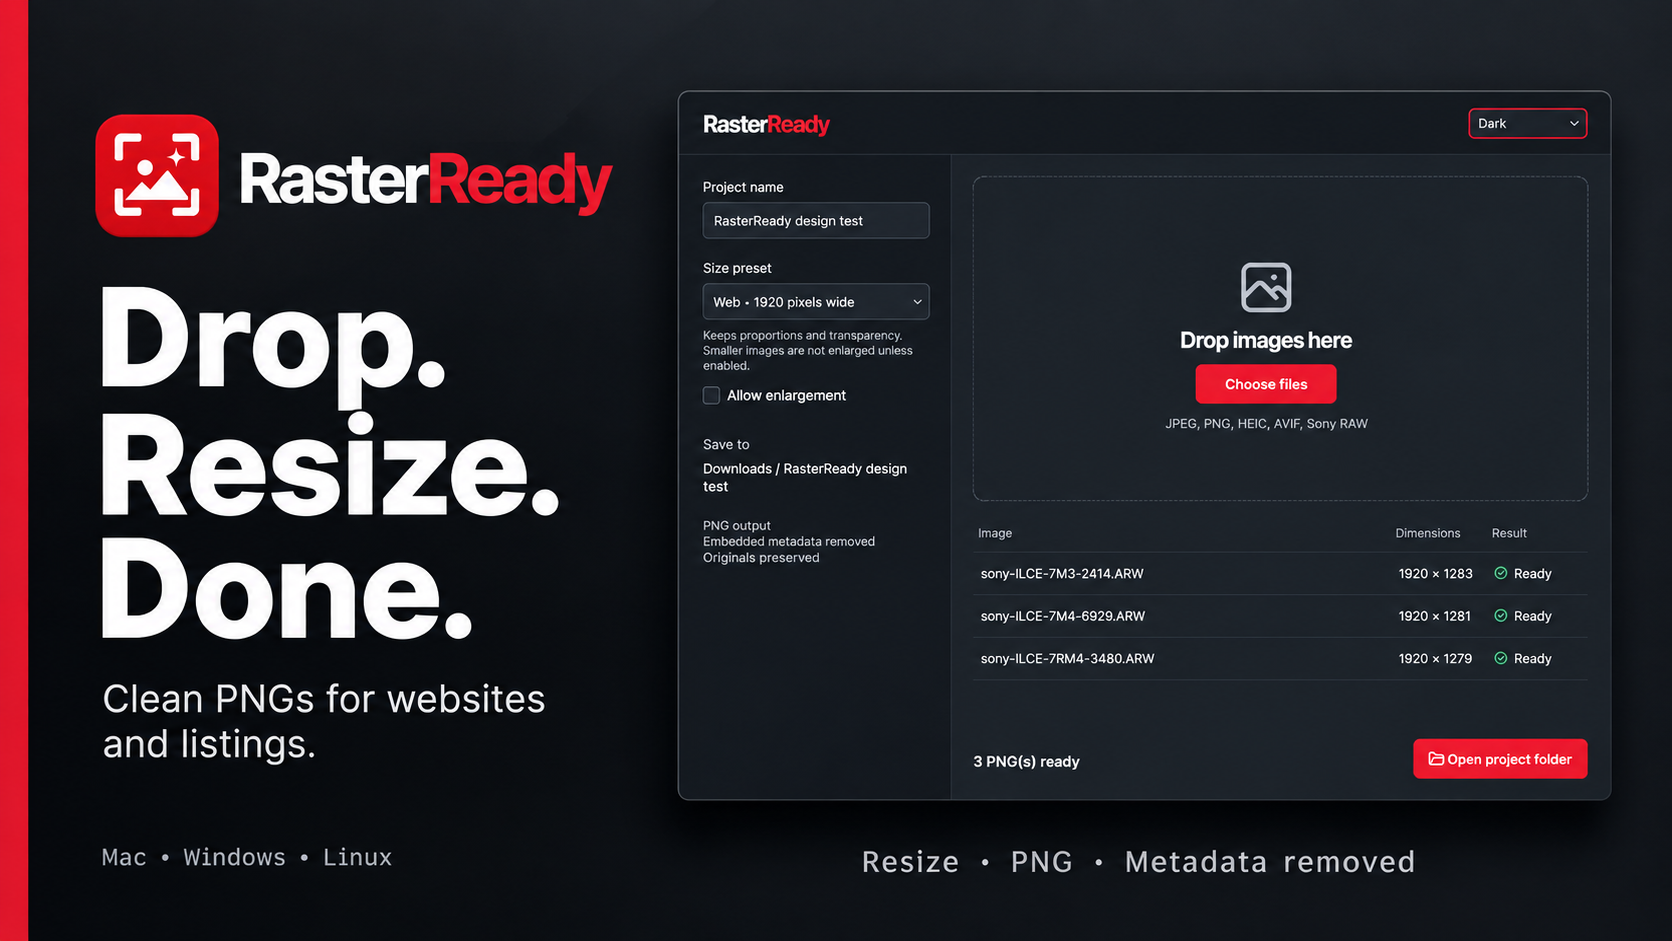
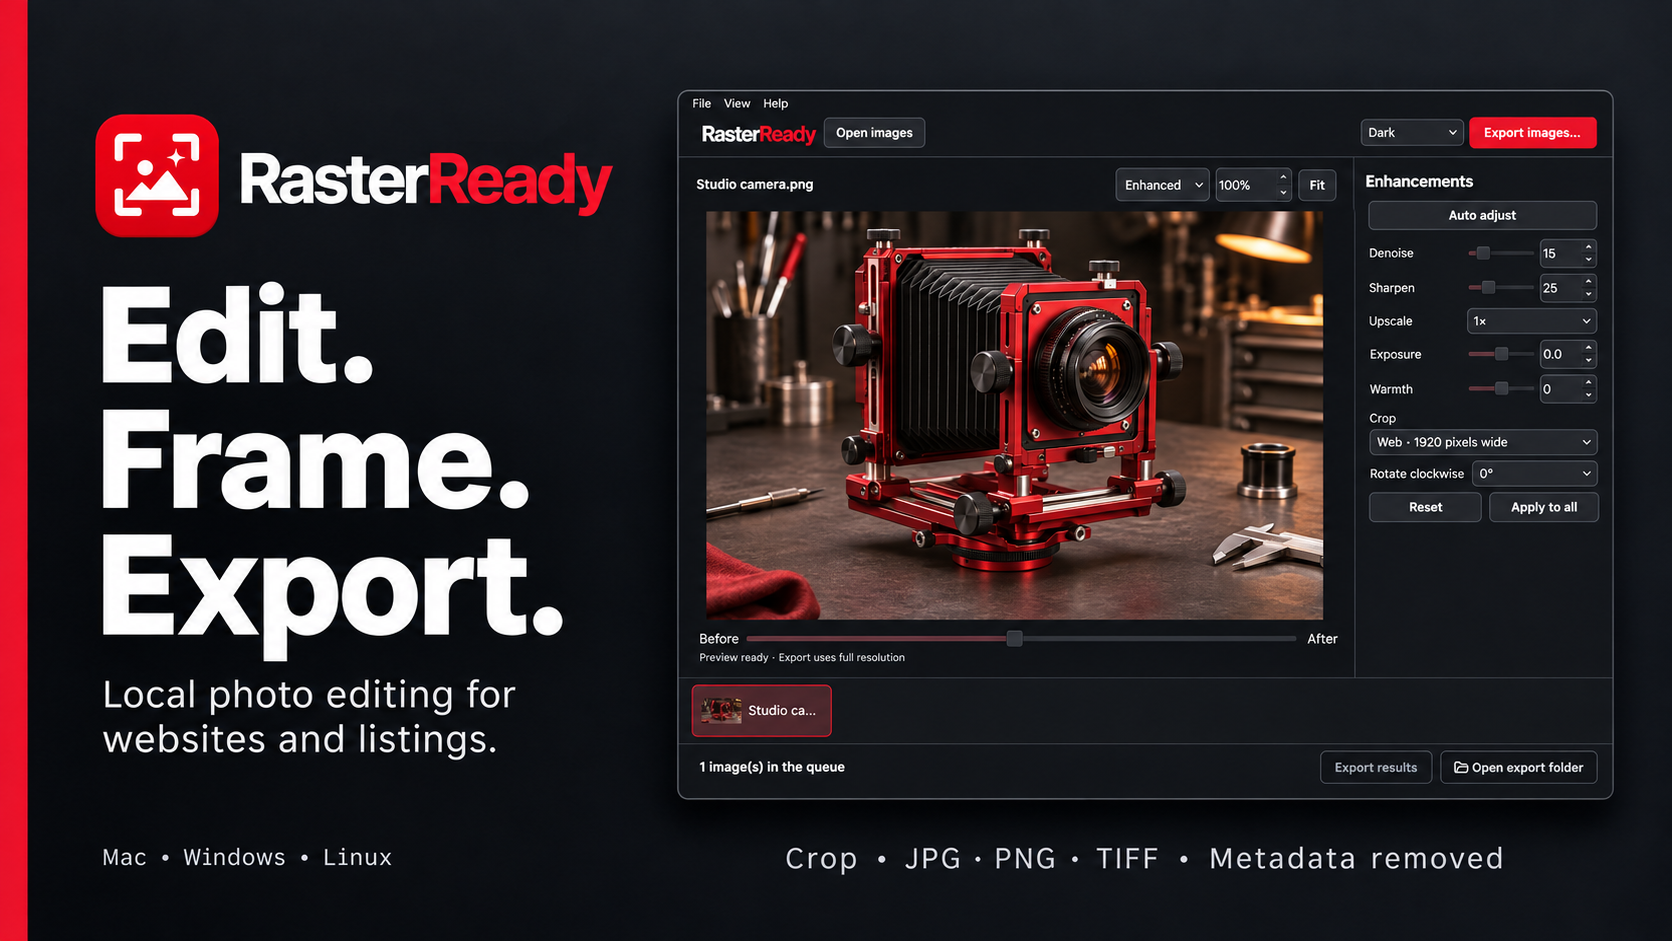
Update RasterReady's presentation and retain platform test packages

diff --git a/docs/INSTALLATION.md b/docs/INSTALLATION.md
@@ -1,5 +1,7 @@
 # Install and use RasterReady
 
+These editing instructions describe the 0.2.0 development source. The latest stable installers are version 0.1.0. Development builds are test candidates with their own platform validation status.
+
 Download the package for your computer from the [latest release](https://github.com/rdcstout/RasterReady/releases/latest). Downloads are free. The release includes SHA-256 checksums, versioned packages, identical stable-name downloads, and matching source materials.
 
 ## macOS
@@ -43,9 +45,14 @@ To update, quit RasterReady and replace the AppImage with the newer official dow
 
 ## Prepare images
 
-1. Enter a project name and choose a preset. Web presets preserve proportions and do not enlarge smaller inputs unless enabled.
-2. Drop your images into the canvas or choose files. Review per-image warnings and results.
-3. Open the project folder to retrieve PNGs directly from your system's **Downloads / project name** folder. Existing files receive a numeric suffix.
+1. Open or drop images into the canvas. Choose a photo from the bottom queue.
+2. Adjust denoise, sharpening, exposure, warmth, rotation or upscaling in the right sidebar.
+3. Select an aspect ratio or sizing preset from the existing **Crop** dropdown. Boxed presets fill the frame and crop excess at the edges. Custom dimensions appear when Custom is selected.
+4. Use **Zoom** or the mouse wheel over the preview, then drag to position the photo inside its frame. The exported image keeps this framing. **Fit** returns zoom to 100%, and **Reset** clears the current photo's adjustments.
+5. Choose **Export images…**, enter a file name and select JPG, PNG or TIFF. Choose the current image or the queue.
+6. Retrieve the exports from your local **Downloads / file name** folder. A batch named Photo saves as Photo.png, Photo 2.png, Photo 3.png and onward. Existing files are preserved and occupied names are skipped.
+
+**Apply to all** copies the selected photo's adjustments, crop preset, position and zoom to the queue. Export results show per-file warnings or failures.
 
 Original files are preserved. Orientation and color are handled before embedded metadata is removed. Visible details in a picture and filenames remain visible. Marketplace presets prepare dimensions; they do not verify listing content or guarantee platform acceptance. Sony RAW support depends on the camera and RAW mode.
 
@@ -57,11 +64,11 @@ Inputs include JPEG, PNG, HEIC/HEIF, AVIF, WebP, TIFF, BMP, GIF and Sony ARW/SRF
 
 Sony RAW inputs are developed to image data rather than exported only from an embedded preview. Representative A7 III, A7 IV and A7R IV files were tested; camera and RAW-mode support depends on LibRaw. Native Windows and Linux package checks used an A7 III file.
 
-Orientation is applied and images are converted to sRGB before embedded metadata is removed. Transparency is preserved except where a preset calls for white output. Generic web widths, marketplace suggestions and custom fit/crop/padding are available. General suggestions are identified when platform rules have not been verified.
+Orientation is applied and images are converted to sRGB before embedded metadata is removed. PNG and TIFF preserve transparency except where a preset requires white output. JPG flattens transparency to white. Crop includes generic web widths, marketplace sizes and custom dimensions. Boxed presets fill their frames, and width-only presets preserve proportions. Marketplace sizes are preparation suggestions and require checking the destination uploader.
 
 Inputs are limited to 1 GiB per file and 100 megapixels; outputs to 50 megapixels and 20,000 pixels per dimension. Per-image errors and warnings appear in the results list. Press Enter on a result or double-click it for full details.
 
-The approved hero is promotional artwork based on an app screenshot.
+Denoise, sharpening and upscaling use local image filters and Lanczos resampling. Auto adjust applies a balanced denoise and sharpen preset. Exports contain 8-bit RGB or RGBA pixels.
 
 ## Recovery and help
 

diff --git a/README.md b/README.md
@@ -1,8 +1,10 @@
 # RasterReady
 
-[![RasterReady — Drop. Resize. Done.](docs/assets/rasterready-hero.png)](https://extrusiontherapy.com/SoftwareRasterReady)
+[![RasterReady photo editor and export](docs/assets/rasterready-hero.png)](https://extrusiontherapy.com/SoftwareRasterReady)
 
-Prepare images for websites and sales listings. Name a project, drop in a batch, and retrieve clean PNGs directly from **Downloads / your project name**. Embedded metadata is removed and originals are preserved.
+Edit photos locally and prepare images for websites and sales listings. Compare before and after, adjust denoise, sharpening, exposure and warmth, then choose a preset in **Crop**. Zoom and drag to frame the image, and export JPG, PNG or TIFF copies. Embedded metadata is removed and originals are preserved.
+
+The source on main is the 0.2.0 development version. The latest packaged release is 0.1.0. Development installers are available in the [successful GitHub Actions runs](https://github.com/rdcstout/RasterReady/actions/workflows/checks.yml) for testing.
 
 ## Download
 
@@ -18,7 +20,9 @@ Downloads are free. Mac is signed and notarized; Windows is unsigned. See [insta
 
 ## Get started
 
-Enter a project name, choose a size preset, and drop images or choose files. Open the project folder when conversion finishes.
+Open or drop photos, make adjustments in the right sidebar, and choose an aspect ratio or sizing preset from **Crop**. Use **Zoom** or the mouse wheel over the image to frame it, then drag to reposition it. **Apply to all** copies adjustments and framing to the queue.
+
+Choose **Export images…**, enter a file name and select JPG, PNG or TIFF. Export the selected photo or the queue. Files save locally in **Downloads / file name**, using names such as Photo.jpg, Photo 2.jpg and Photo 3.jpg. Existing files are preserved.
 
 [Usage, supported formats and limitations](docs/INSTALLATION.md#prepare-images) · [Updates, removal and recovery](docs/INSTALLATION.md)
 

diff --git a/CONTRIBUTING.md b/CONTRIBUTING.md
@@ -4,7 +4,7 @@ Useful bug reports, focused fixes, documentation and accessibility improvements 
 
 Report an ordinary bug with the version/commit, OS and processor, steps, expected and actual behavior, and a small sanitized image when needed. Remove personal images, embedded location, credentials and identifying paths. Use [SECURITY.md](SECURITY.md) for suspected vulnerabilities; do not disclose them publicly.
 
-Follow [DEVELOPMENT.md](DEVELOPMENT.md) for setup and [validation](DEVELOPMENT.md#validation). Preserve originals, direct Downloads/project output, metadata removal, orientation/color handling and responsive batches. Keep changes focused, use assets you have rights to contribute, and document dependencies and licenses. Contributions to RasterReady's own code use the [MIT License](LICENSE); preserve third-party license notices. Do not commit settings, secrets, fixtures containing personal data, caches or installers.
+Follow [DEVELOPMENT.md](DEVELOPMENT.md) for setup and [validation](DEVELOPMENT.md#validation). Preserve the editor layout, the single Crop dropdown, matching preview/export framing, originals, named Downloads export folders, metadata removal, orientation/color handling and responsive batches. Keep changes focused, use assets you have rights to contribute, and document dependencies and licenses. Contributions to RasterReady's own code use the [MIT License](LICENSE); preserve third-party license notices. Do not commit settings, secrets, fixtures containing personal data, caches or installers.
 
 In a PR, explain the user-visible problem and result, include relevant test results, identify untested platforms, and attach sanitized screenshots for UI changes. Add a focused regression test for a reproducible bug where practical. A build alone does not prove packaged usability. The [automated-checks section](DEVELOPMENT.md#automated-checks) describes the current CI state.
 

diff --git a/AGENTS.md b/AGENTS.md
@@ -1,6 +1,6 @@
 # RasterReady development
 
-Preserve the approved Python/Qt split layout, Light/Dark/system modes and project-name / drop / file-picker workflow. Save clean PNGs directly in the OS Downloads/<project name> directory, preserve originals and avoid overwrites. Apply orientation and sRGB conversion before stripping embedded metadata. Keep batch work responsive and report per-file failures.
+Preserve the approved Photo Workbench layout in Python/Qt with the RasterReady name, black-and-red default theme and Light/Dark/system modes. Open/drop images into the editing queue. Keep every aspect ratio and sizing preset in the existing Crop dropdown. Zoom and dragging adjust the crop framing used by export. Export asks for a file name, format and batch scope, saving named files in Downloads/<file name> with additional images numbered 2, 3 and onward. Preserve originals, avoid overwrites, apply orientation and sRGB conversion before stripping metadata, and keep batches responsive with per-file results.
 
 Target current Apple Silicon macOS, Windows x64 and Linux x64; Linux delivery includes DEB and AppImage. Read DEVELOPMENT.md for setup, validation and packaging status, CONTRIBUTING.md for review scope, and SECURITY.md before disclosing suspected vulnerabilities. Keep private data, local paths and experimental assets out of public commits. A successful build or source upload does not prove a packaged release is ready. Publication needs maintainer authorization.
 

diff --git a/DEVELOPMENT.md b/DEVELOPMENT.md
@@ -1,5 +1,14 @@
 # Developing RasterReady
 
+## Current editor
+
+The 0.2.0 development source starts directly in the Photo Workbench layout. The app module owns the window, export worker, results and updater. The workbench module owns the photo queue, preview, Crop dropdown and export settings. The enhance module implements local adjustments. The core module owns decoding, color/orientation normalization, framing and exclusive output creation.
+
+The single Crop dropdown contains aspect ratios and the shared sizing presets. Bounded presets fill the frame. Per-photo zoom and position are used by both preview and export. Export writes JPG, PNG or TIFF into Downloads/<file name>, with additional images numbered 2, 3 and onward.
+
+GitHub Actions tests and builds this source on macOS, Windows and Ubuntu. Successful runs retain development app/installer files for seven days. They are test candidates. Native installation and workflow acceptance are required for each new package before a release.
+
+
 Python 3.12 and the pinned dependencies in `pyproject.toml` / `requirements-dev.txt` are required. Run commands from the repository root. On Linux, Qt also needs a graphical desktop and the distribution's Qt/XCB runtime libraries (commonly `libegl1`, `libxkbcommon-x11-0` and `libxcb-cursor0` on Debian/Ubuntu). Headless tests use Qt's offscreen platform.
 
 ## Set up and run
